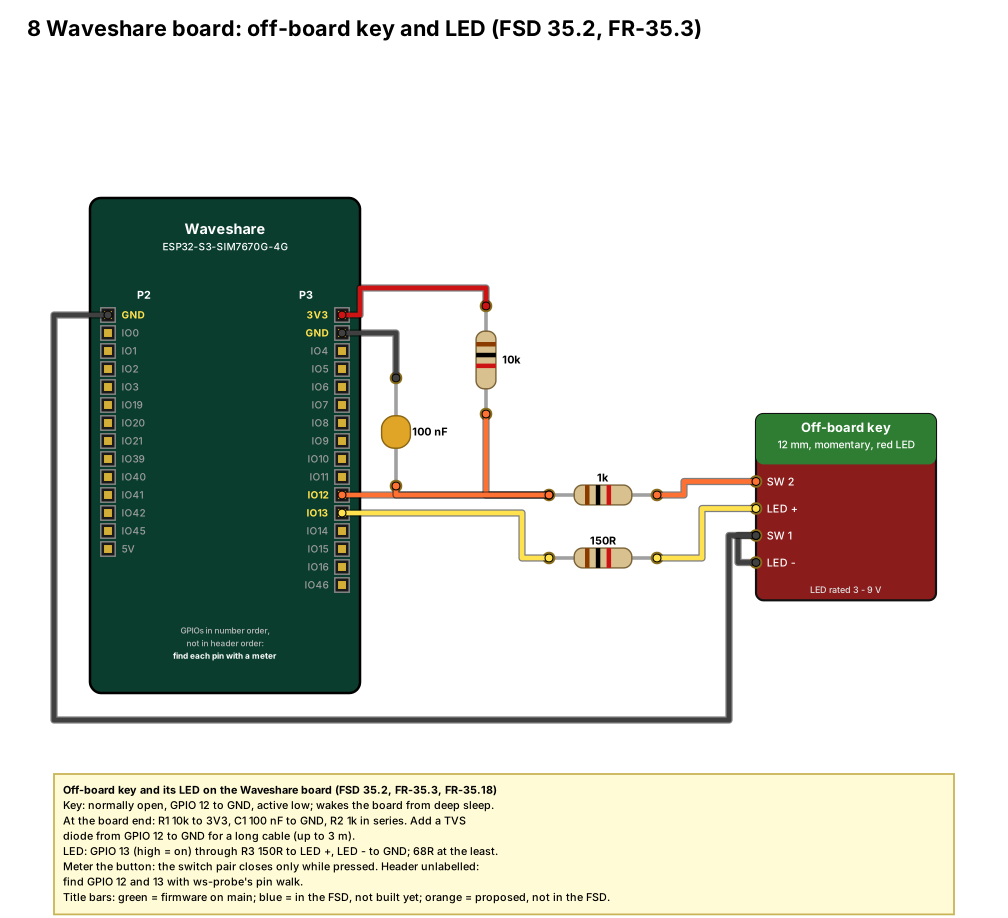
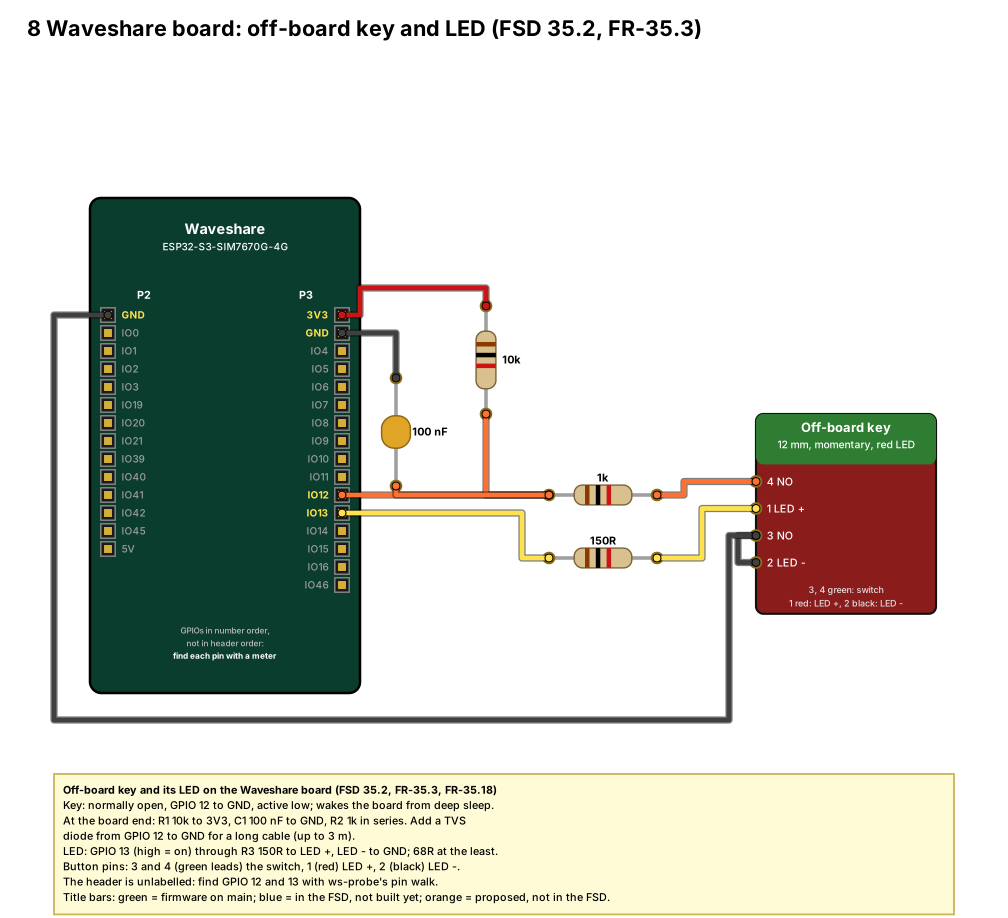
wiring sheet 8: the button's pin numbers and lead colours
Pins 3 and 4 (green) the switch, 1 (red) LED +, 2 (black) LED -, from the
seller's wiring diagram.

Claude-Session: https://claude.ai/code/session_014onQRhHCwQ9ZkutGJhUQdM

Changed region(s): [[0.0615, 0.915, 0.4613, 0.976], [0.7381, 0.5185, 0.9534, 0.671]]

diff --git a/docs/Method/project/wiring/make_wiring.py b/docs/Method/project/wiring/make_wiring.py
@@ -392,8 +392,8 @@ def build_parts(used):
                     desc="3.12 inch 256 x 64 OLED, SSD1322, module Ver 2.1 set for 4-wire SPI"))
     add(two_pin("tds3a_r10k5_v", "res", "10k", True, "R", "Resistor"))
     add(module_part("tds3a_key_12mm", ["Off-board key", "12 mm, momentary, red LED"], "built",
-                    left=["SW 2", "LED +", "SW 1", "LED -"], w=1000, color="#8a1c1c",
-                    notes=["LED rated 3 - 9 V"],
+                    left=["4 NO", "1 LED +", "3 NO", "2 LED -"], w=1000, color="#8a1c1c",
+                    notes=["3, 4 green: switch", "1 red: LED +, 2 black: LED -"],
                     desc="12 mm momentary push button, normally open, with a red LED"))
     add(two_pin("tds3a_r150_h", "res", "150R", False, "R", "Resistor"))
     add(two_pin("tds3a_r10k_v", "res", "10k 0.1%", True, "R", "Resistor"))
@@ -1065,21 +1065,21 @@ def sheet_ws_key(S):
     S.wire(("R1", "2"), ("R2", "1"), "orange", ("y", 2750))
     S.wire(("C1", "2"), ("R2", "1"), "orange", ("y", 2750))
     S.wire(("C1", "1"), (B, "GND R"), "black", ("y", 1850))
-    S.wire(("R2", "2"), ("SW1", "SW 2"), "orange", ("x", 3800))
+    S.wire(("R2", "2"), ("SW1", "4 NO"), "orange", ("x", 3800))
     # the key's LED on GPIO 13
     S.wire((B, "IO13"), ("R3", "1"), "yellow", ("x", 2900))
-    S.wire(("R3", "2"), ("SW1", "LED +"), "yellow", ("x", 3900))
+    S.wire(("R3", "2"), ("SW1", "1 LED +"), "yellow", ("x", 3900))
     # the switch's other side and the LED's cathode to GND
-    S.wire(("SW1", "LED -"), ("SW1", "SW 1"), "black", ("x", 4100))
-    S.wire(("SW1", "SW 1"), (B, "GND"), "black", ("x", 4050), ("y", 4000), ("x", 300), ("y", 1750))
+    S.wire(("SW1", "2 LED -"), ("SW1", "3 NO"), "black", ("x", 4100))
+    S.wire(("SW1", "3 NO"), (B, "GND"), "black", ("x", 4050), ("y", 4000), ("x", 300), ("y", 1750))
     S.note(300, 4300, 5000, [
         "# Off-board key and its LED on the Waveshare board (FSD 35.2, FR-35.3, FR-35.18)",
         "Key: normally open, GPIO 12 to GND, active low; wakes the board from deep sleep.",
         "At the board end: R1 10k to 3V3, C1 100 nF to GND, R2 1k in series. Add a TVS",
         "diode from GPIO 12 to GND for a long cable (up to 3 m).",
         "LED: GPIO 13 (high = on) through R3 150R to LED +, LED - to GND; 68R at the least.",
-        "Meter the button: the switch pair closes only while pressed. Header unlabelled:",
-        "find GPIO 12 and 13 with ws-probe's pin walk.",
+        "Button pins: 3 and 4 (green leads) the switch, 1 (red) LED +, 2 (black) LED -.",
+        "The header is unlabelled: find GPIO 12 and 13 with ws-probe's pin walk.",
         LEGEND,
     ])
 
